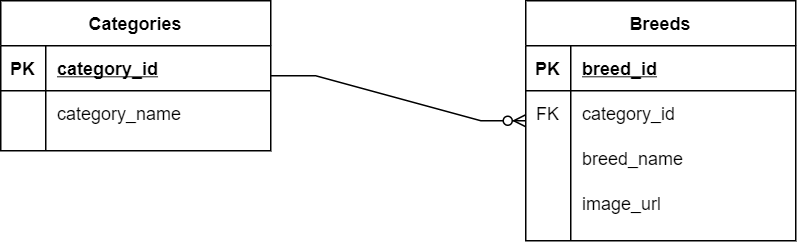
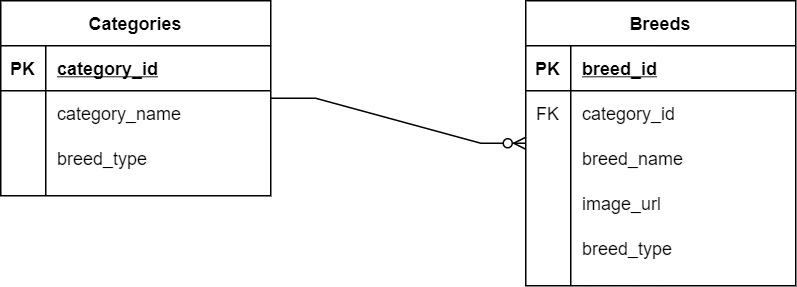
Updated 'About' views and its ERD, and added 'Category' model's show view

diff --git a/app/assets/stylesheets/style.css b/app/assets/stylesheets/style.css
@@ -55,7 +55,7 @@ body {
         font-size: 11px;
         text-transform: uppercase;
     }
-    .container #category_name, .container #category_name a {
+    .container #category_name, .container #category_name a, .container #breed_name, .container #breed_name a {
         text-decoration: none;
         list-style-type: circle;
     }

diff --git a/app/controllers/categories_controller.rb b/app/controllers/categories_controller.rb
@@ -4,5 +4,6 @@ class CategoriesController < ApplicationController
   end
 
   def show
+    @category = Category.find(params[:id])
   end
 end

diff --git a/app/controllers/breeds_controller.rb b/app/controllers/breeds_controller.rb
@@ -4,5 +4,6 @@ class BreedsController < ApplicationController
   end
 
   def show
+    @breed = Breed.find_by(params[:id])
   end
 end
